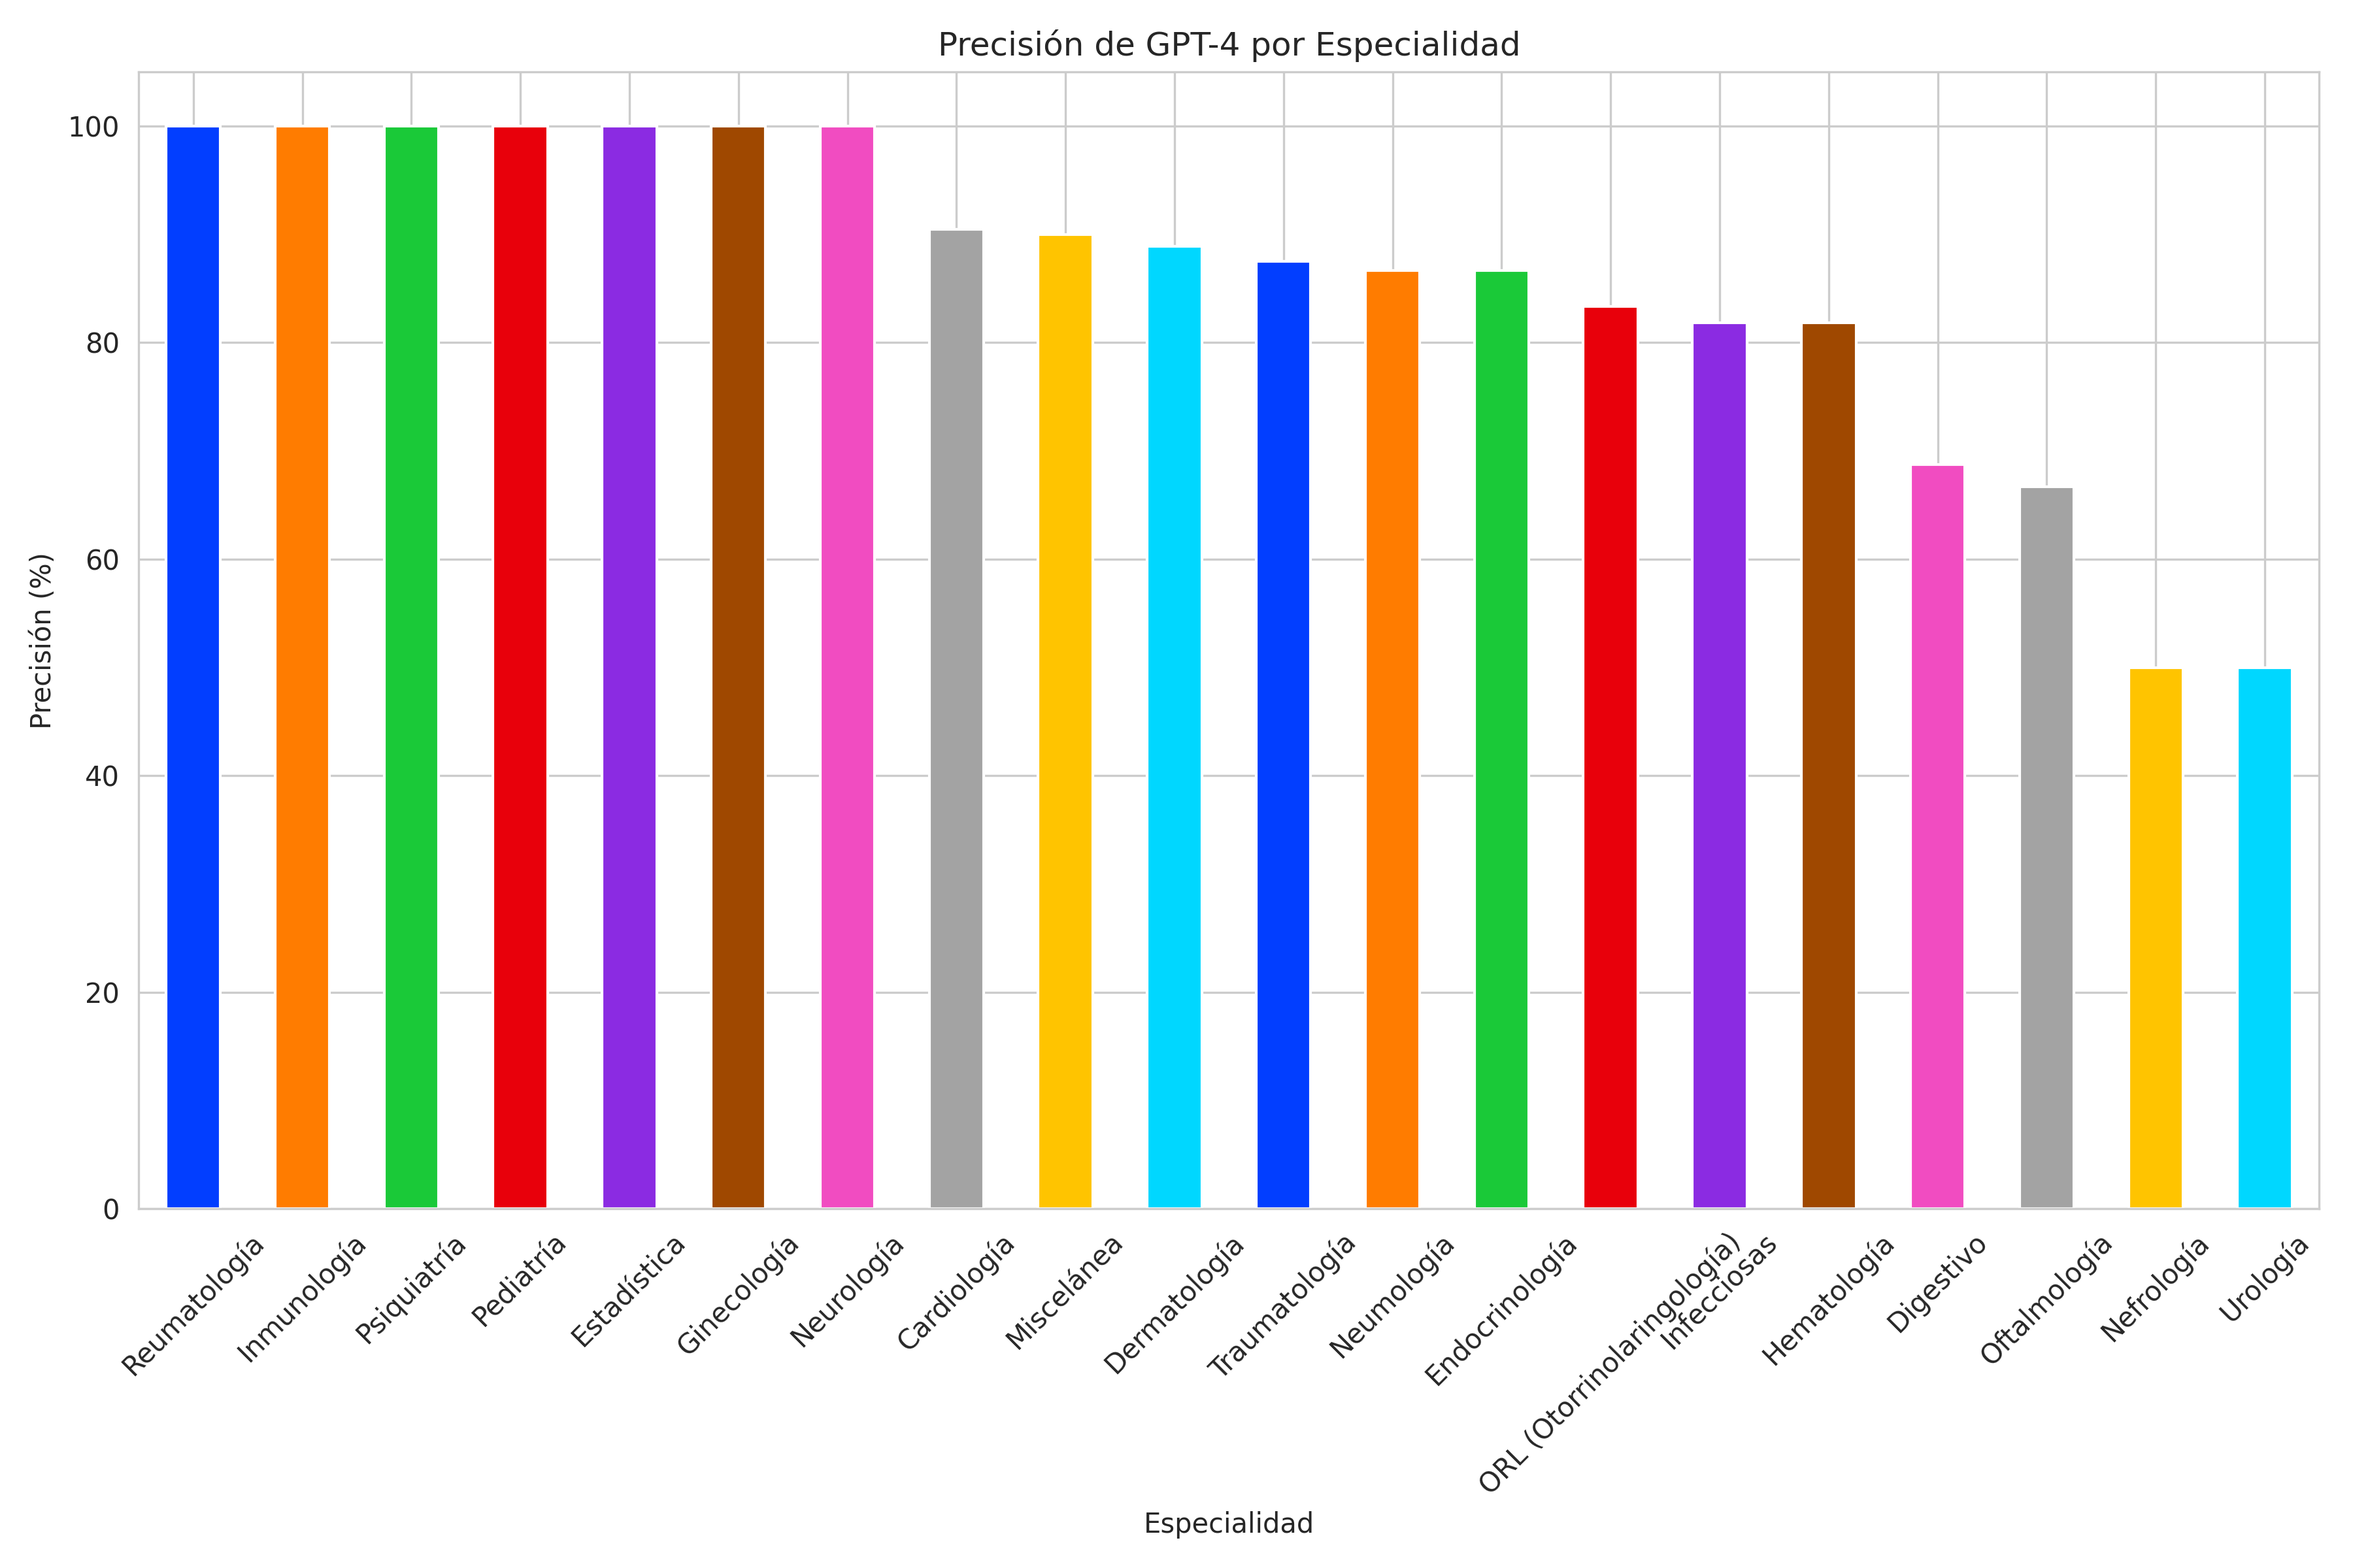
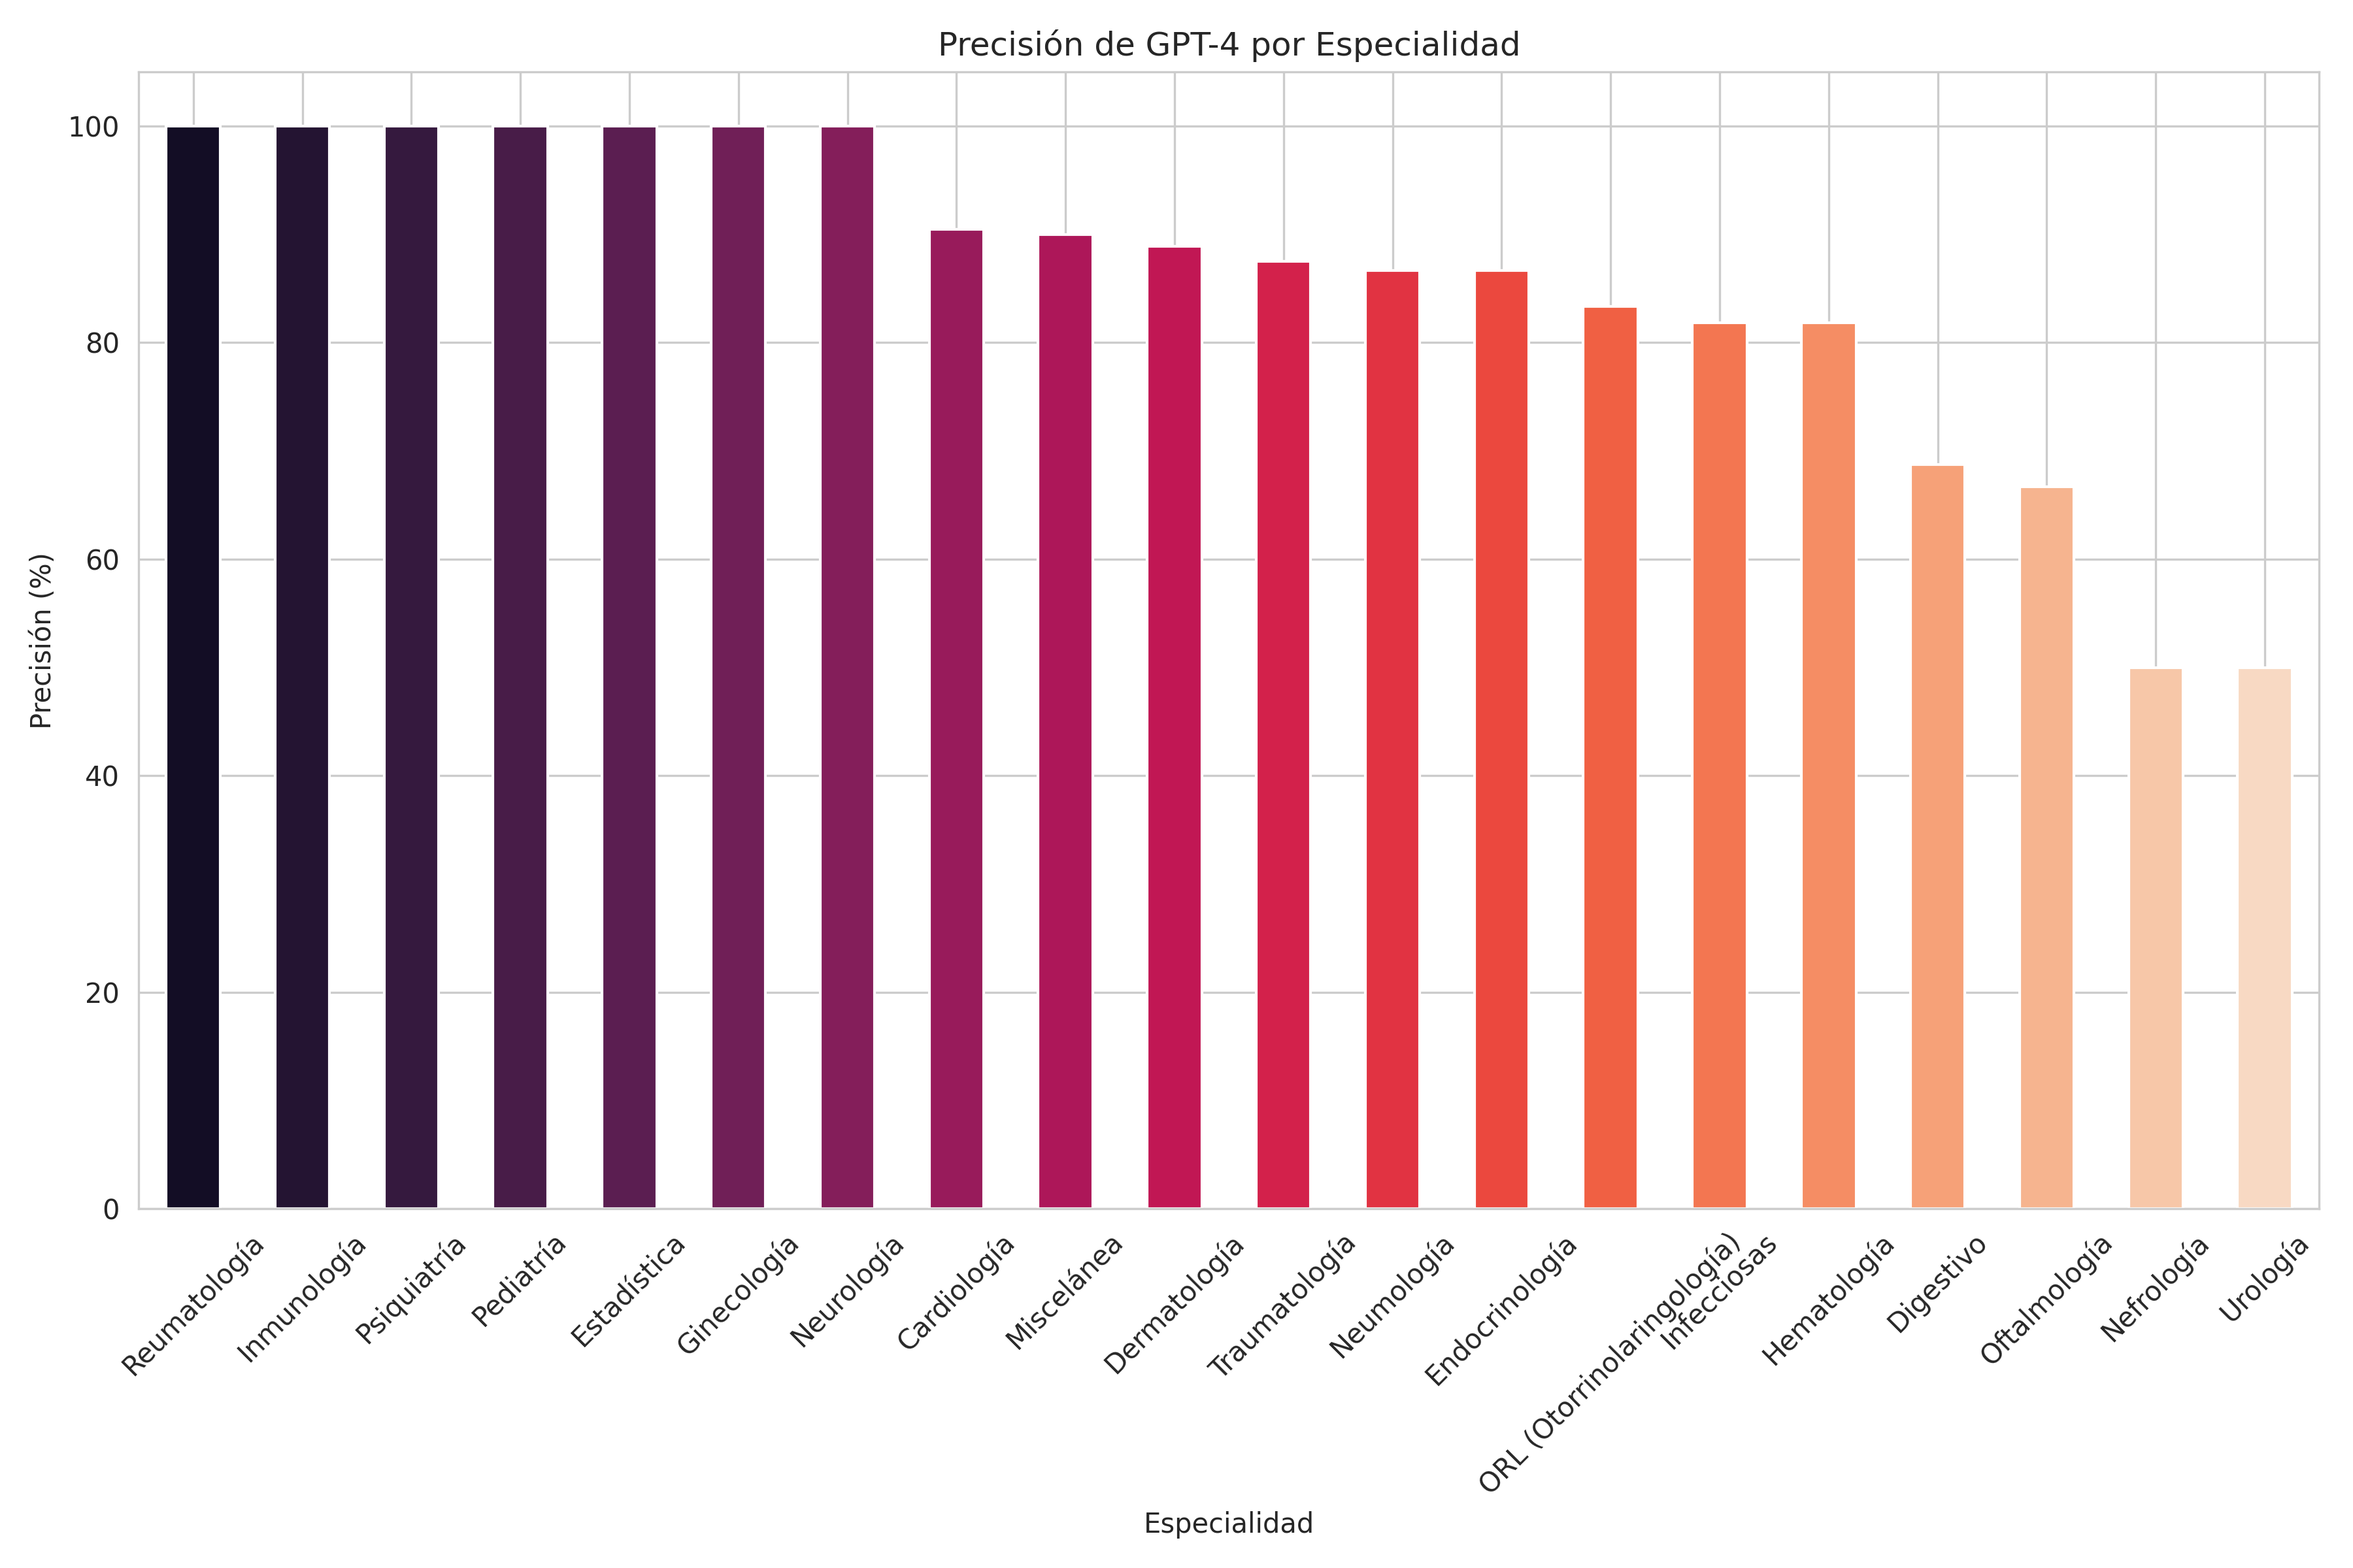
graphic update

Changed region(s): [[0.0622, 0.0625, 0.9956, 0.7812]]

diff --git a/src/MIR_EDA.py b/src/MIR_EDA.py
@@ -62,8 +62,8 @@ category_accuracy = dataset_from_25.groupby('Especialidad').apply(
 # Convert accuracy to percentage
 category_accuracy_percentage = category_accuracy * 100
 
-# Create a color palette suitable for a research paper
-colors = sns.color_palette('bright', len(category_accuracy))
+# Create a reversed color palette suitable for a research paper
+colors = sns.color_palette('rocket_r', len(category_accuracy))[::-1]
 
 fig, ax = plt.subplots(figsize=(12, 8), dpi=300)
 category_accuracy_percentage.sort_values(ascending=False).plot(kind='bar', ax=ax, color=colors)
@@ -135,7 +135,7 @@ category_accuracy = dataset_merged.groupby('Especialidad').apply(
 category_accuracy_percentage = category_accuracy * 100
 
 # Create a color palette
-colors = sns.color_palette('bright', len(category_accuracy_percentage))
+colors = sns.color_palette('rocket_r', len(category_accuracy_percentage))[::-1]
 
 fig, ax = plt.subplots(figsize=(12, 8), dpi=300)
 category_accuracy_percentage.sort_values(ascending=False).plot(kind='bar', ax=ax, color=colors)
